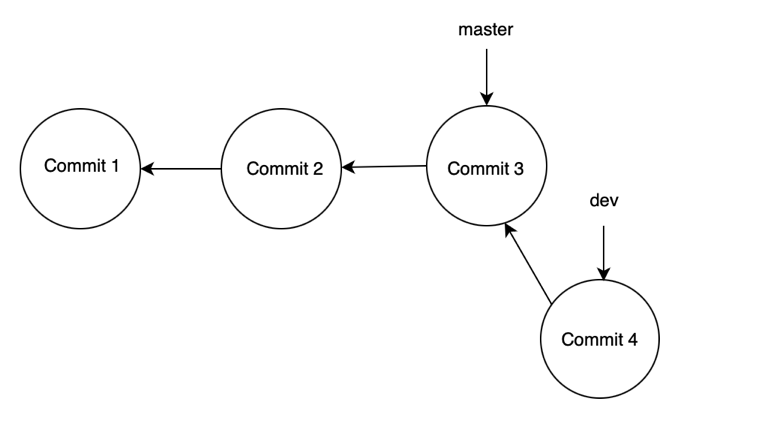
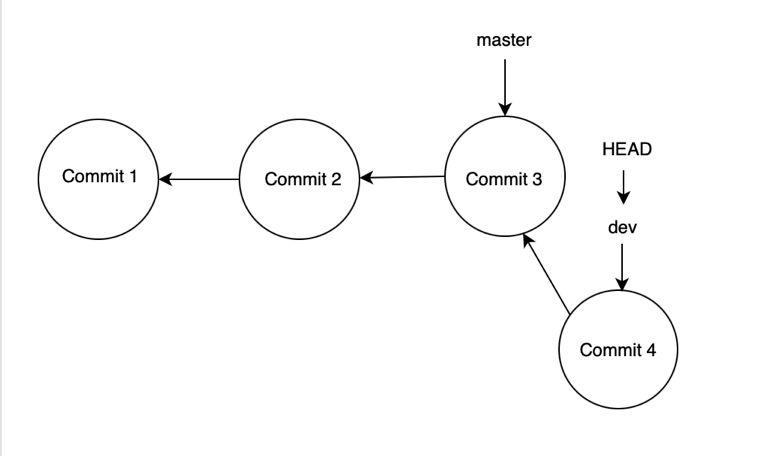
Explore HEAD in Git

diff --git a/README.md b/README.md
@@ -4,7 +4,7 @@
 
 Stash can be said to a private locker where the changes are stored temporarily, anything that is stashed is not a part of the commit.
 
-Technically speaking, whenever we have some code changes that we don't want to be part of the next commit, we can add those chages to the staging area and use `git stash`. It's important to know that stash behaves like a stack data structure.
+Technically speaking, whenever we have some code changes that we don't want to be part of the next commit, we can add those changes to the staging area and use `git stash`. It's important to know that stash behaves like a stack data structure.
 
 **What are the usecases of Git stash in real life projects?** 
 
@@ -233,3 +233,27 @@ From the screenshot above, we can observe that:
 1. When we checkout a new branch, both the `main` and the `feature_branch` are pointing to the same commit.
 
 2. The `HEAD` pointer is pointing to the current branch `feature_branch`.
+
+Let's now try to create another commit in the `feature_branch` branch, and see the changes in the `feature_branch` and the `HEAD` pointer.
+
+![Git-HEAD-pointer-moves-after-commit-on-branch](./Git-HEAD-pointer-moves-after-commit-on-branch.png)
+
+From the screenshot above, we can see that the `main` branch points to the previous commit, and the `feature_branch` branch points to the new commit. Also, the `HEAD` pointer also moves along with the `feature_branch` branch pointer.
+
+Let's also explore a command that we'll be using to visualize the commit history in the form of a graph:
+
+`git log --all --decorate --oneline --graph`
+
+Let's do a step by step analysis of this command:
+
+`--all` shows all the branches, not just the current branch.
+
+`--decorate` makes the `git log` display all the references (like tags, branches) that point to a commit.
+
+`--oneline` flag condenses each commit to a single line.
+
+`--graph` option draws an ASCII graph representing the branch structure of the commit history.
+
+See this link [Atlassian Documentation](https://www.atlassian.com/git/tutorials/git-log) for more details, also refer to the example below:
+
+![Git-log-outputted-format](Git-log-outputted-format.png) 
